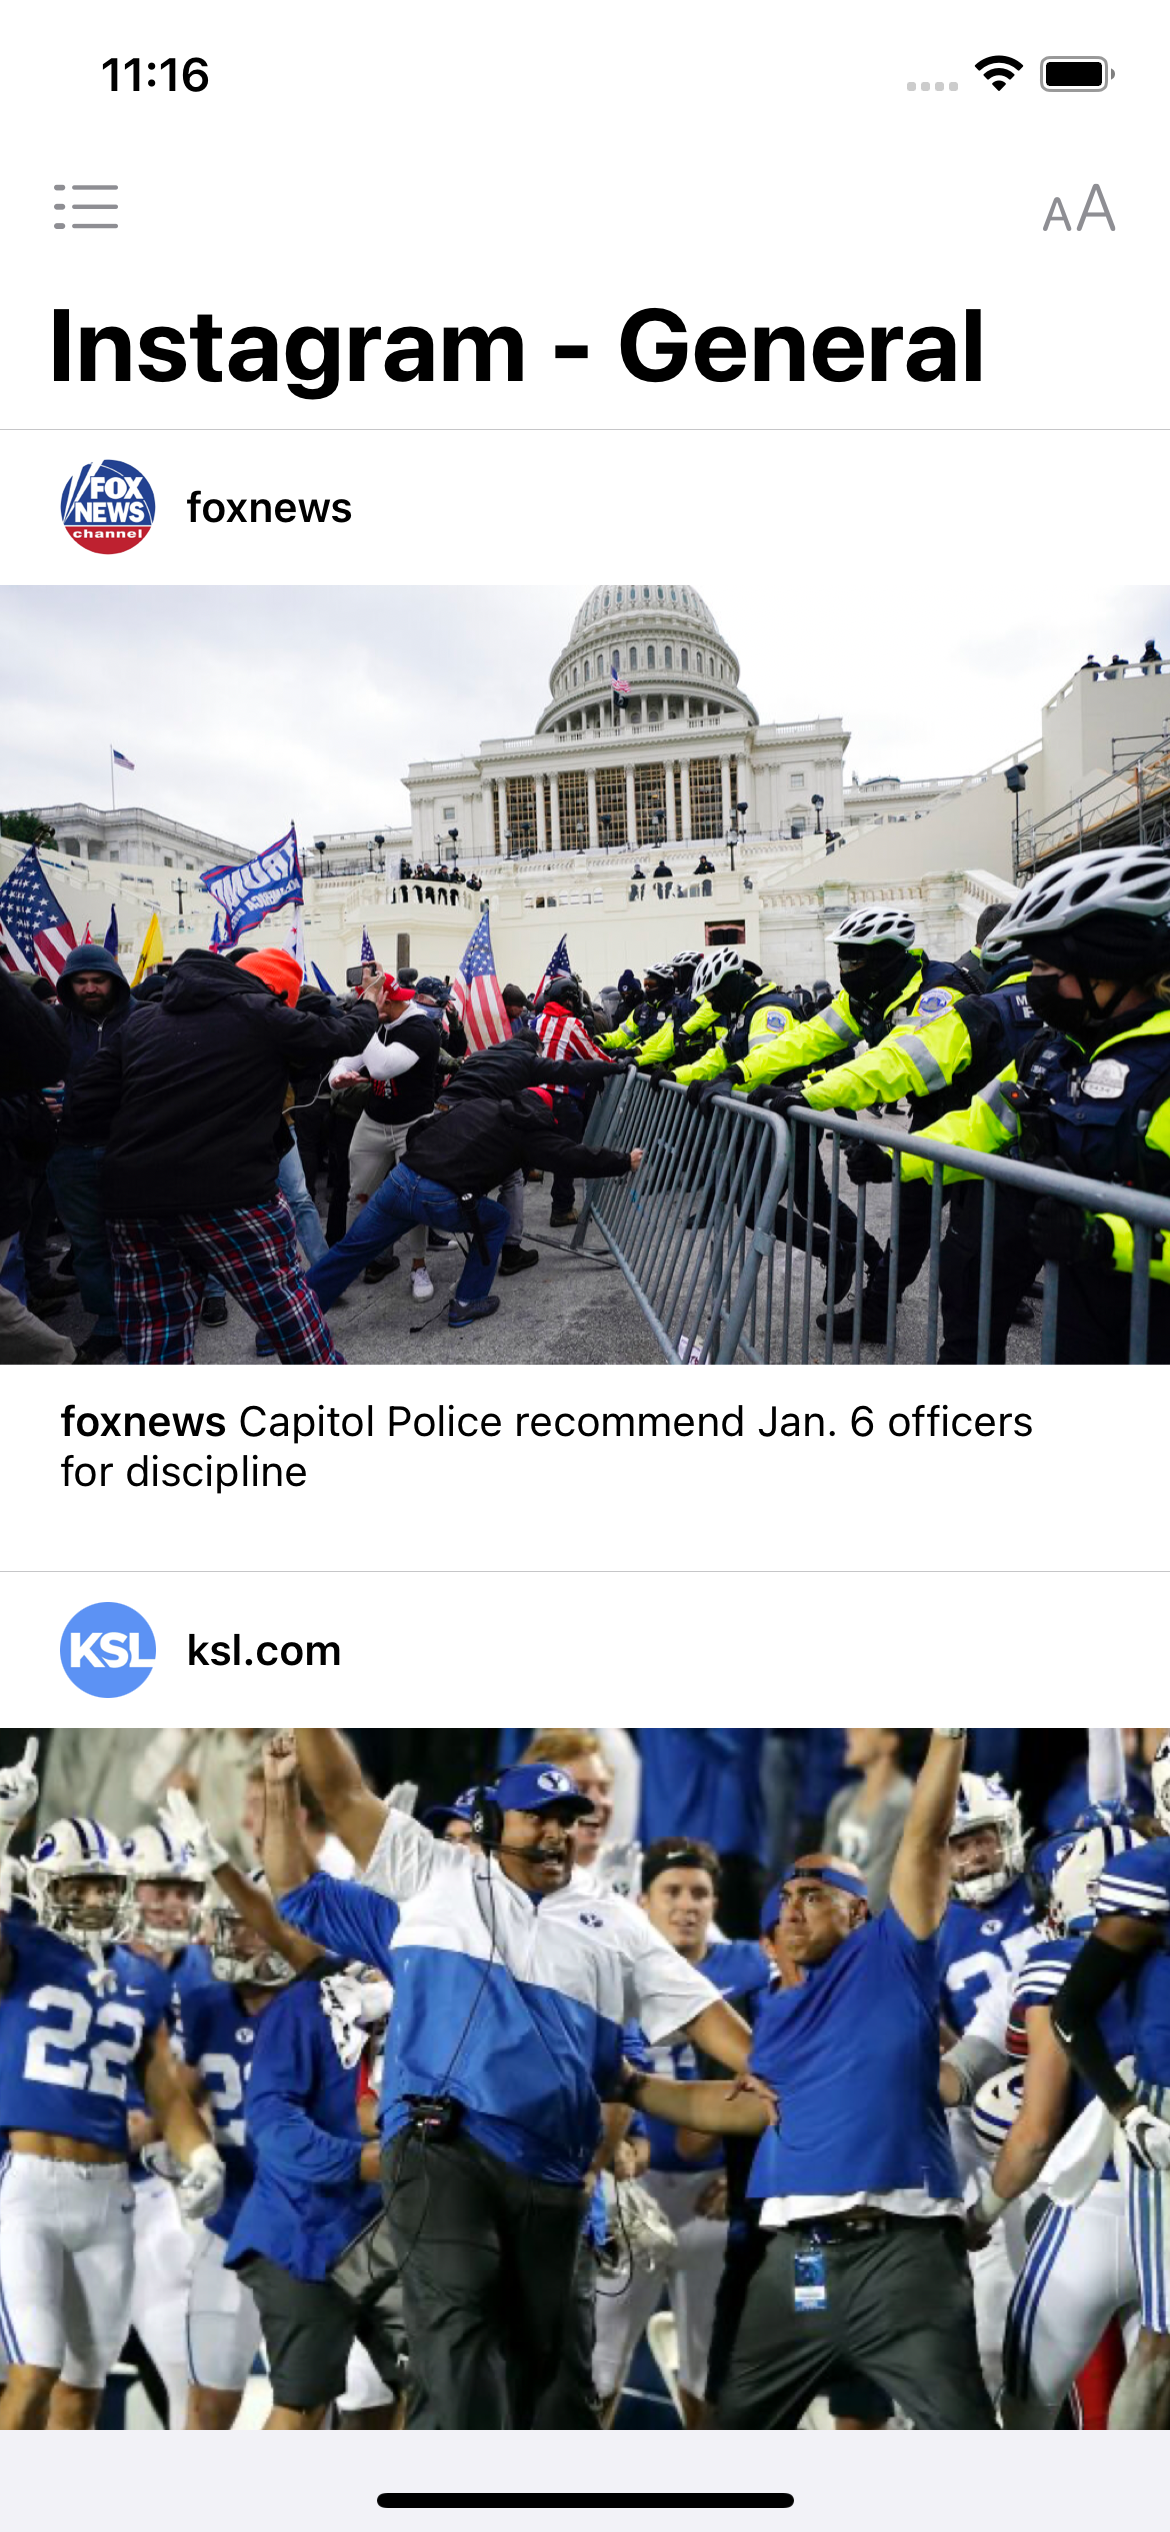
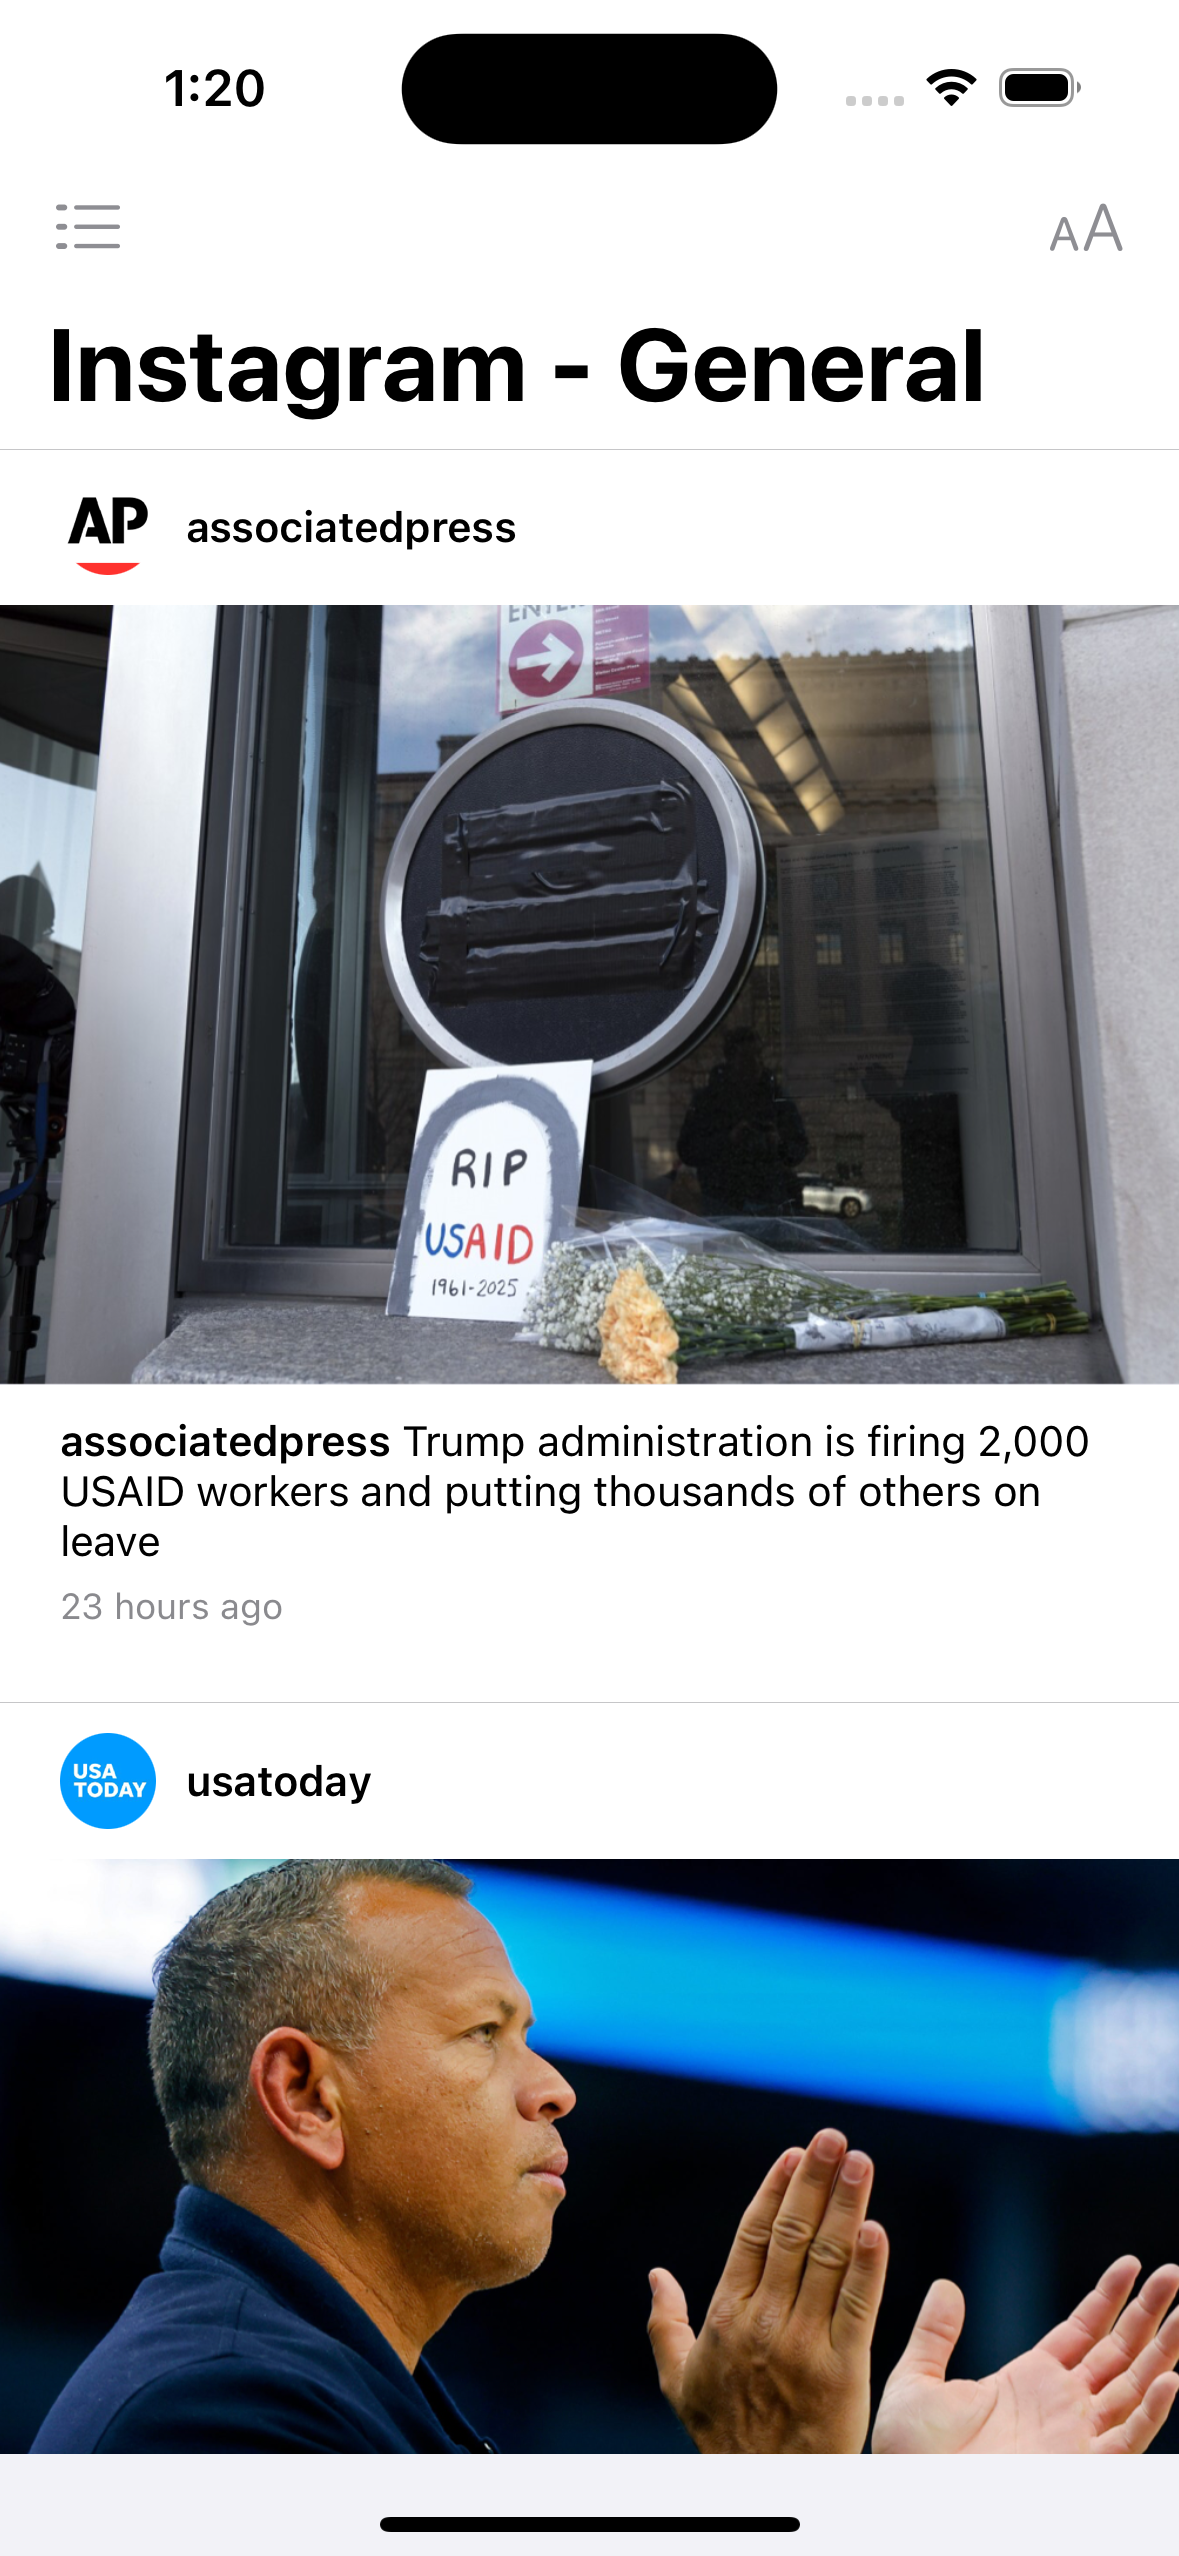
Update Instagram

diff --git a/Xcode/TheNews/Views/Instagram/InstagramCell.swift b/Xcode/TheNews/Views/Instagram/InstagramCell.swift
@@ -16,13 +16,16 @@ class InstagramCell: NewsCell {
     override func config() {
         super.config()
 
+        ago.font = .preferredFont(forTextStyle: .caption1)
+        ago.textColor = .secondaryLabel
+        
         source.font = .boldSystemFont(ofSize: 14)
 
         logo.backgroundColor = .secondarySystemBackground
         logo.layer.cornerRadius = InstagramCell.logoSize.width / 2
         logo.layer.masksToBounds = true
 
-        [logo, source, title, articleImageView].forEach { item in
+        [logo, source, title, articleImageView, ago].forEach { item in
             contentView.addSubviewForAutoLayout(item)
         }
 
@@ -46,7 +49,10 @@ class InstagramCell: NewsCell {
             title.leadingAnchor.constraint(equalTo: contentView.readableContentGuide.leadingAnchor),
             contentView.readableContentGuide.trailingAnchor.constraint(equalTo: title.trailingAnchor),
 
-            contentView.bottomAnchor.constraint(equalTo: title.bottomAnchor, constant: 25)
+            ago.topAnchor.constraint(equalTo: title.bottomAnchor, constant: 6),
+            ago.leadingAnchor.constraint(equalTo: contentView.readableContentGuide.leadingAnchor),
+
+            contentView.bottomAnchor.constraint(equalTo: ago.bottomAnchor, constant: 25)
         ])
 
     }
@@ -54,6 +60,7 @@ class InstagramCell: NewsCell {
     func load(article: Article) {
         source.text = article.username
         title.attributedText = article.text
+        ago.text = article.ago
         load(urlString: article.urlToImage, downloader: ImageDownloader.shared)
         loadLogo(urlString: article.urlToSourceLogo, size: InstagramCell.logoSize)
     }
